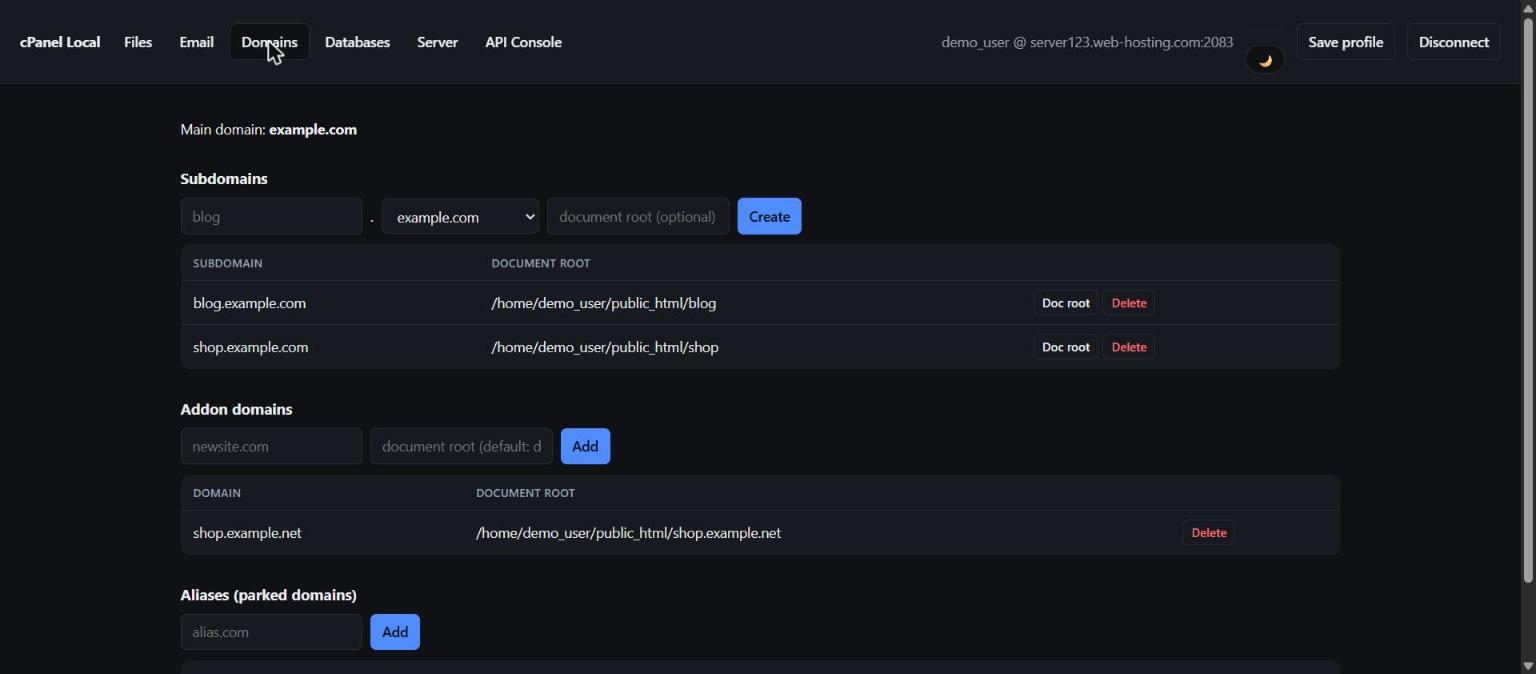
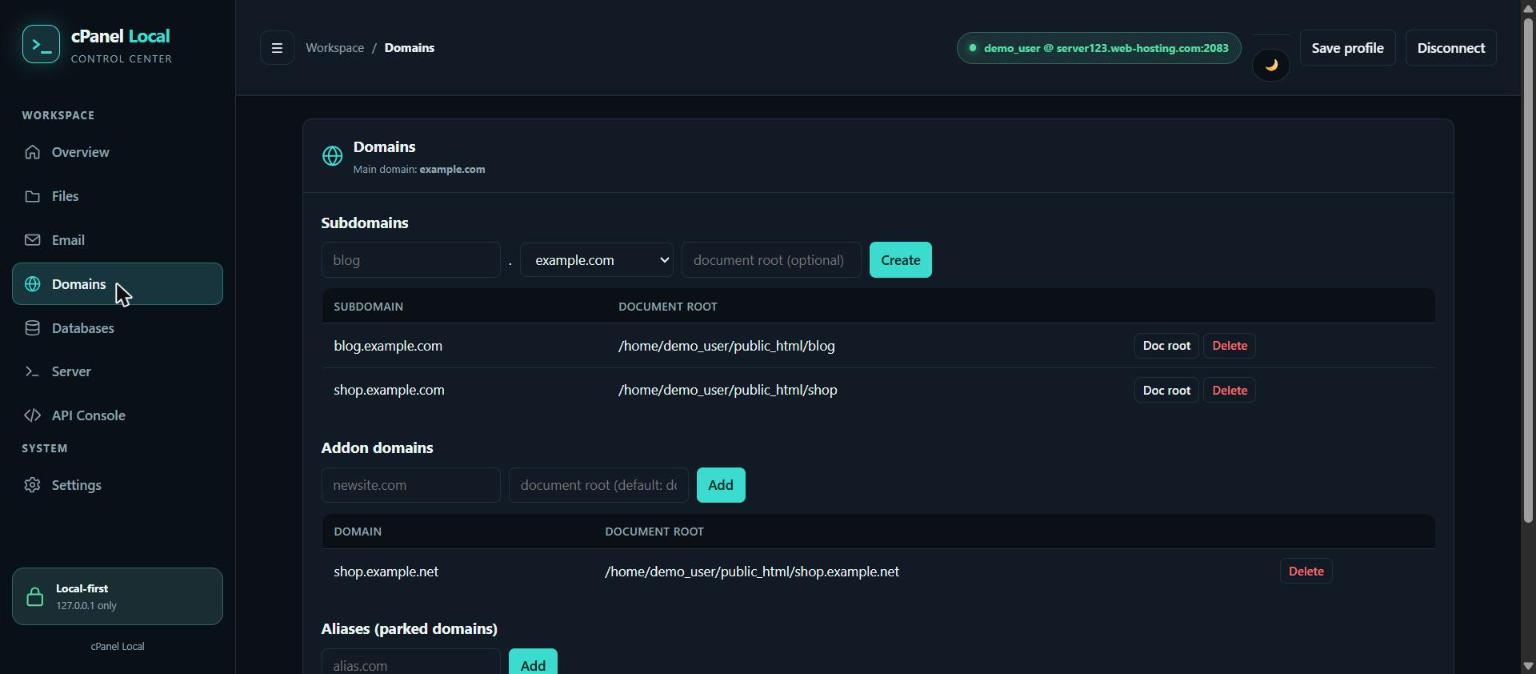
Refresh README screenshots for the new dashboard UI
Regenerates all screenshots against the sidebar/dashboard redesign
and adds a new Overview dashboard screenshot.

diff --git a/README.md b/README.md
@@ -60,6 +60,10 @@ client.
 |---|---|
 | ![cPanel connect screen](screenshots/cpanel-connect.jpg) | ![SSH connect form](screenshots/server-ssh-connect.jpg) |
 
+| Overview |
+|---|
+| ![Overview dashboard](screenshots/app-overview.jpg) |
+
 | Files | Email |
 |---|---|
 | ![Files tab](screenshots/app-files.jpg) | ![Email tab](screenshots/app-email.jpg) |
